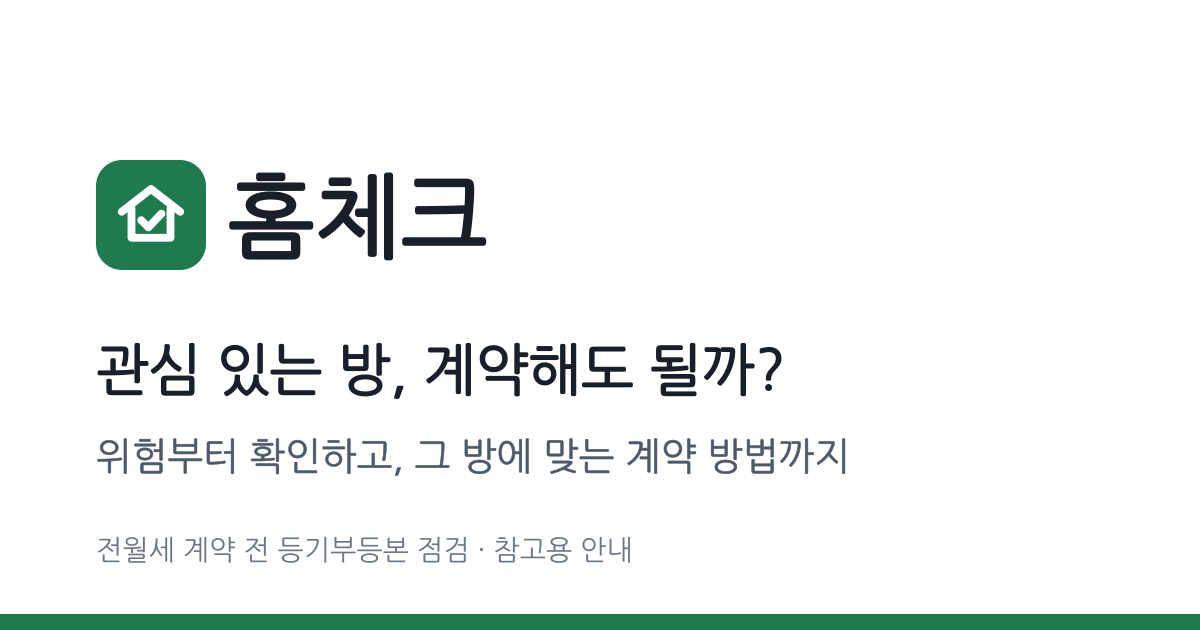
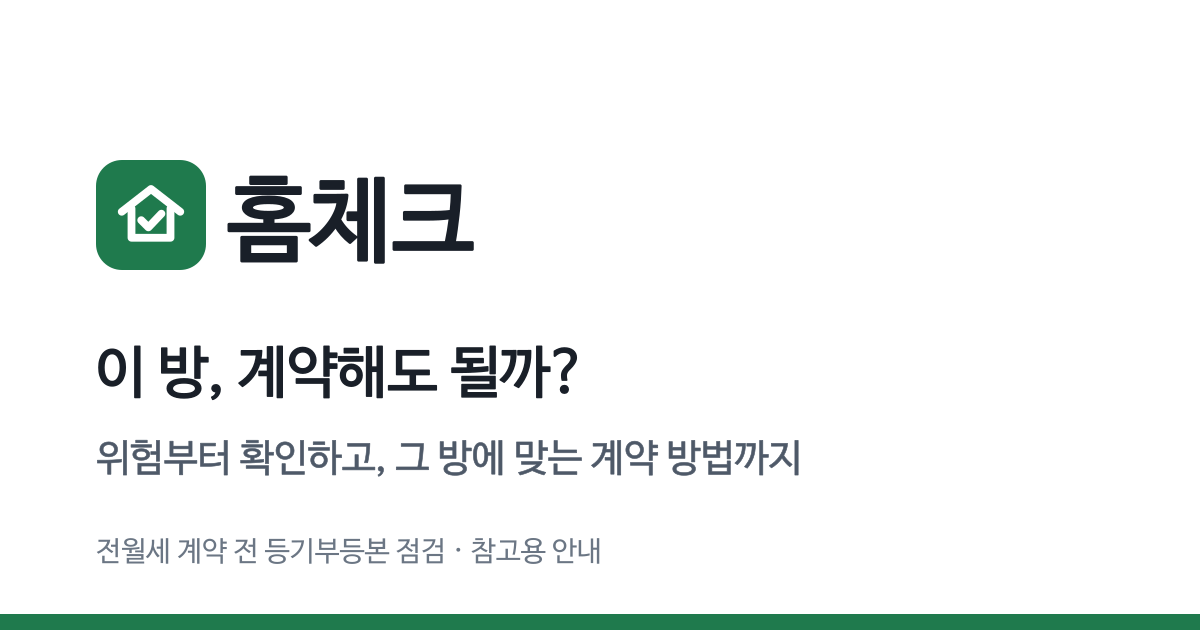
부제 확정: 「홈체크 · 이 방, 계약해도 될까?」
'홈체크'만 쓰면 하자 점검 앱처럼 들려서, 홈체크가 "이 방"에 맞춰 점검한다는 핵심이 바로 보이는 부제로 정했다(A6).
- 브라우저 탭 제목 · 홈 화면 앱 이름 · 공유 미리보기 제목과 이미지(og.png 다시 만듦)를 같은 부제로 맞춤
- README · PRD 첫 줄, 일정표 A6 체크
테스트 336개 통과, 배포용 빌드 확인.

diff --git a/app/manifest.ts b/app/manifest.ts
@@ -3,7 +3,7 @@ import type { MetadataRoute } from "next";
 
 export default function manifest(): MetadataRoute.Manifest {
   return {
-    name: "홈체크 · 전월세 계약 전 점검",
+    name: "홈체크 · 이 방, 계약해도 될까?",
     short_name: "홈체크",
     description: "관심 있는 방, 계약해도 될까? 위험부터 확인하고, 그 방에 맞는 계약 방법까지.",
     start_url: "/",

diff --git a/docs/SCHEDULE.md b/docs/SCHEDULE.md
@@ -38,7 +38,7 @@
 - [x] A3 다가구 '앞선 세입자 보증금' 확인 방법 안내 다듬기 (11/17 완료: 시행령 제6조 ② · 규칙 제7조 ② 원문으로 낼 서류를 확인해 점검 화면 · 4단계에 '어떻게 확인해요?' 안내와 부탁 문장 복사를 넣음)
 - [x] A4 용어 말풍선 남은 세부(11/16 합의): 경험자는 밑줄 · 말풍선 끄기, PC에서는 마우스를 올려도 보기 (11/17 완료: 첫 안내의 '다 알아요 · 끄기', 해 봤어요 진행 화면에서 켜기/끄기, 마우스는 올리면 열리고 눌러서 연 것은 고정)
 - [x] A5 아직 원문 확인 안 한 용어 3개(다가구주택 · 앞선 세입자 보증금 · 특약) 확인 (11/17 완료: 근거 S23 건축법 시행령 별표 1 · S24 주택임대차보호법 제30조 추가, 용어 16/16 확인. 다가구 정의가 4개 층 · 1천㎡ 미만으로 바뀐 것을 원문으로 확인)
-- [ ] A6 **부제 최종 확정** ('홈체크'만 쓰면 하자 점검 앱처럼 들려서 부제가 필요)
+- [x] A6 **부제 최종 확정**: 「홈체크 · 이 방, 계약해도 될까?」 (11/21 확정. 앱 제목 · 홈 화면 앱 이름 · 공유 미리보기 · README · PRD에 반영)
 - [x] A7 **7주차 점검표 6영역** 자체 점검 → 빨강 고치기 (11/17 완료: [CHECK_7W.md](CHECK_7W.md), 새 clone으로 README대로 실행 확인, 이상한 입력에서 찾은 3개 고침 — 두 번 누르면 방 2개 · 등기부 아닌 글에 신호등 · 어색한 조사)
 - [ ] A8 **사용자가 직접 써 보기** (서버 + 체크리스트 제공) → 나온 문제 고치기
 - [x] A9 Supabase에 남은 시험 계정(hc-e2e-…@example.com) 지우기 — 사용자 (11/17 완료)

diff --git a/README.md b/README.md
@@ -4,7 +4,7 @@
 
 완성된 앱은 외부 AI를 부르지 않습니다. 개발은 Claude로 했습니다.
 
-> 관심 있는 방, 계약해도 될까? 위험부터 확인하고, 그 방에 맞는 계약 방법까지.
+> **홈체크 · 이 방, 계약해도 될까?** 위험부터 확인하고, 그 방에 맞는 계약 방법까지.
 
 - 형태: 모바일 우선 웹 + PWA (설치 없이 링크로 열고, 홈 화면에 추가 가능)
 - 제출: 포스터 11/23(월) · 최종 코드 11/28(토)

diff --git a/docs/PRD.md b/docs/PRD.md
@@ -1,6 +1,6 @@
 # 홈체크 미니 PRD (v0.6)
 
-> **관심 있는 방, 계약해도 될까?**
+> **홈체크 · 이 방, 계약해도 될까?**
 > 위험부터 확인하고, 그 방에 맞는 계약 방법까지. 방은 직방에서 찾고, 계약해도 되는지는 홈체크에서.
 
 - 작성일: 2026-11-06
